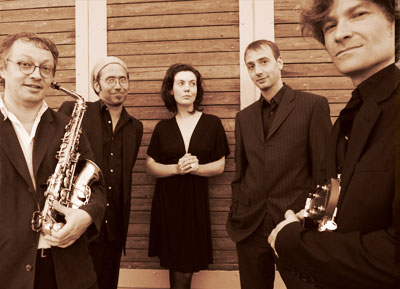
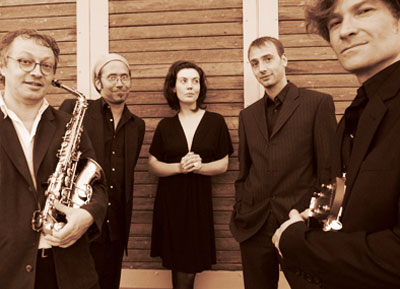
work-in-progress

diff --git a/index.html b/index.html
@@ -186,11 +186,11 @@
                                 <i class="fa fa-plus fa-3x"></i>
                             </div>
                         </div>
-                        <img src="img/media/golden.png" class="img-responsive" alt="">
+                        <img src="img/media/thumb-yesnut04.jpg" class="img-responsive" alt="Press Photo">
                     </a>
                     <div class="media-caption">
-                        <h4>Golden</h4>
-                        <p class="text-muted">Website Design</p>
+                        <h4>Press Photo</h4>
+                        <p class="text-muted">2014</p>
                     </div>
                 </div>
                 <div class="col-md-4 col-sm-6 media-item">
@@ -200,11 +200,11 @@
                                 <i class="fa fa-plus fa-3x"></i>
                             </div>
                         </div>
-                        <img src="img/media/escape.png" class="img-responsive" alt="">
+                        <img src="img/media/thumb-yesnut05.jpg" class="img-responsive" alt="Recording sessions">
                     </a>
                     <div class="media-caption">
-                        <h4>Escape</h4>
-                        <p class="text-muted">Website Design</p>
+                        <h4>Recording sessions</h4>
+                        <p class="text-muted">2014</p>
                     </div>
                 </div>
                 <div class="col-md-4 col-sm-6 media-item">
@@ -214,11 +214,11 @@
                                 <i class="fa fa-plus fa-3x"></i>
                             </div>
                         </div>
-                        <img src="img/media/dreams.png" class="img-responsive" alt="">
+                        <img src="img/media/thumb-yesnut06.jpg" class="img-responsive" alt="Press Photo">
                     </a>
                     <div class="media-caption">
-                        <h4>Dreams</h4>
-                        <p class="text-muted">Website Design</p>
+                        <h4>Press Photo</h4>
+                        <p class="text-muted">2013</p>
                     </div>
                 </div>
             </div>
@@ -561,12 +561,10 @@
                     <div class="col-lg-8 col-lg-offset-2">
                         <div class="modal-body">
                             <!-- Project Details Go Here -->
-                            <h2>Project Name</h2>
-                            <p class="item-intro text-muted">Lorem ipsum dolor sit amet consectetur.</p>
-                            <img class="img-responsive img-centered" src="img/media/golden-preview.png" alt="">
-                            <p>Start Bootstrap's Agency theme is based on Golden, a free PSD website template built by <a href="https://www.behance.net/MathavanJaya">Mathavan Jaya</a>. Golden is a modern and clean one page web template that was made exclusively for Best PSD Freebies. This template has a great media, timeline, and meet your team sections that can be easily modified to fit your needs.</p>
-                            <p>You can download the PSD template in this media sample item at <a href="http://freebiesxpress.com/gallery/golden-free-one-page-web-template/">FreebiesXpress.com</a>.</p>
-                            <button type="button" class="btn btn-primary" data-dismiss="modal"><i class="fa fa-times"></i> Close Project</button>
+                            <h2>Yesnut Press Photo</h2>
+                            <p class="item-intro text-muted">Photo: Janusz Leudemann</p>
+                            <img class="img-responsive img-centered" src="img/media/yesnut04.jpg" alt="">
+                            <button type="button" class="btn btn-primary" data-dismiss="modal"><i class="fa fa-times"></i> Close</button>
                         </div>
                     </div>
                 </div>
@@ -588,12 +586,10 @@
                     <div class="col-lg-8 col-lg-offset-2">
                         <div class="modal-body">
                             <!-- Project Details Go Here -->
-                            <h2>Project Name</h2>
-                            <p class="item-intro text-muted">Lorem ipsum dolor sit amet consectetur.</p>
-                            <img class="img-responsive img-centered" src="img/media/escape-preview.png" alt="">
-                            <p>Escape is a free PSD web template built by <a href="https://www.behance.net/MathavanJaya">Mathavan Jaya</a>. Escape is a one page web template that was designed with agencies in mind. This template is ideal for those looking for a simple one page solution to describe your business and offer your services.</p>
-                            <p>You can download the PSD template in this media sample item at <a href="http://freebiesxpress.com/gallery/escape-one-page-psd-web-template/">FreebiesXpress.com</a>.</p>
-                            <button type="button" class="btn btn-primary" data-dismiss="modal"><i class="fa fa-times"></i> Close Project</button>
+                            <h2>Recording sessions</h2>
+                            <p class="item-intro text-muted">Photo: Janusz Leudemann</p>
+                            <img class="img-responsive img-centered" src="img/media/yesnut05.jpg" alt="Recording sessions">
+                            <button type="button" class="btn btn-primary" data-dismiss="modal"><i class="fa fa-times"></i> Close</button>
                         </div>
                     </div>
                 </div>
@@ -615,12 +611,10 @@
                     <div class="col-lg-8 col-lg-offset-2">
                         <div class="modal-body">
                             <!-- Project Details Go Here -->
-                            <h2>Project Name</h2>
-                            <p class="item-intro text-muted">Lorem ipsum dolor sit amet consectetur.</p>
-                            <img class="img-responsive img-centered" src="img/media/dreams-preview.png" alt="">
-                            <p>Dreams is a free PSD web template built by <a href="https://www.behance.net/MathavanJaya">Mathavan Jaya</a>. Dreams is a modern one page web template designed for almost any purpose. It’s a beautiful template that’s designed with the Bootstrap framework in mind.</p>
-                            <p>You can download the PSD template in this media sample item at <a href="http://freebiesxpress.com/gallery/dreams-free-one-page-web-template/">FreebiesXpress.com</a>.</p>
-                            <button type="button" class="btn btn-primary" data-dismiss="modal"><i class="fa fa-times"></i> Close Project</button>
+                            <h2>Yesnut Press Photo</h2>
+                            <p class="item-intro text-muted">Photo: Janusz Leudemann</p>
+                            <img class="img-responsive img-centered" src="img/media/yesnut06.jpg" alt="">
+                            <button type="button" class="btn btn-primary" data-dismiss="modal"><i class="fa fa-times"></i> Close</button>
                         </div>
                     </div>
                 </div>
